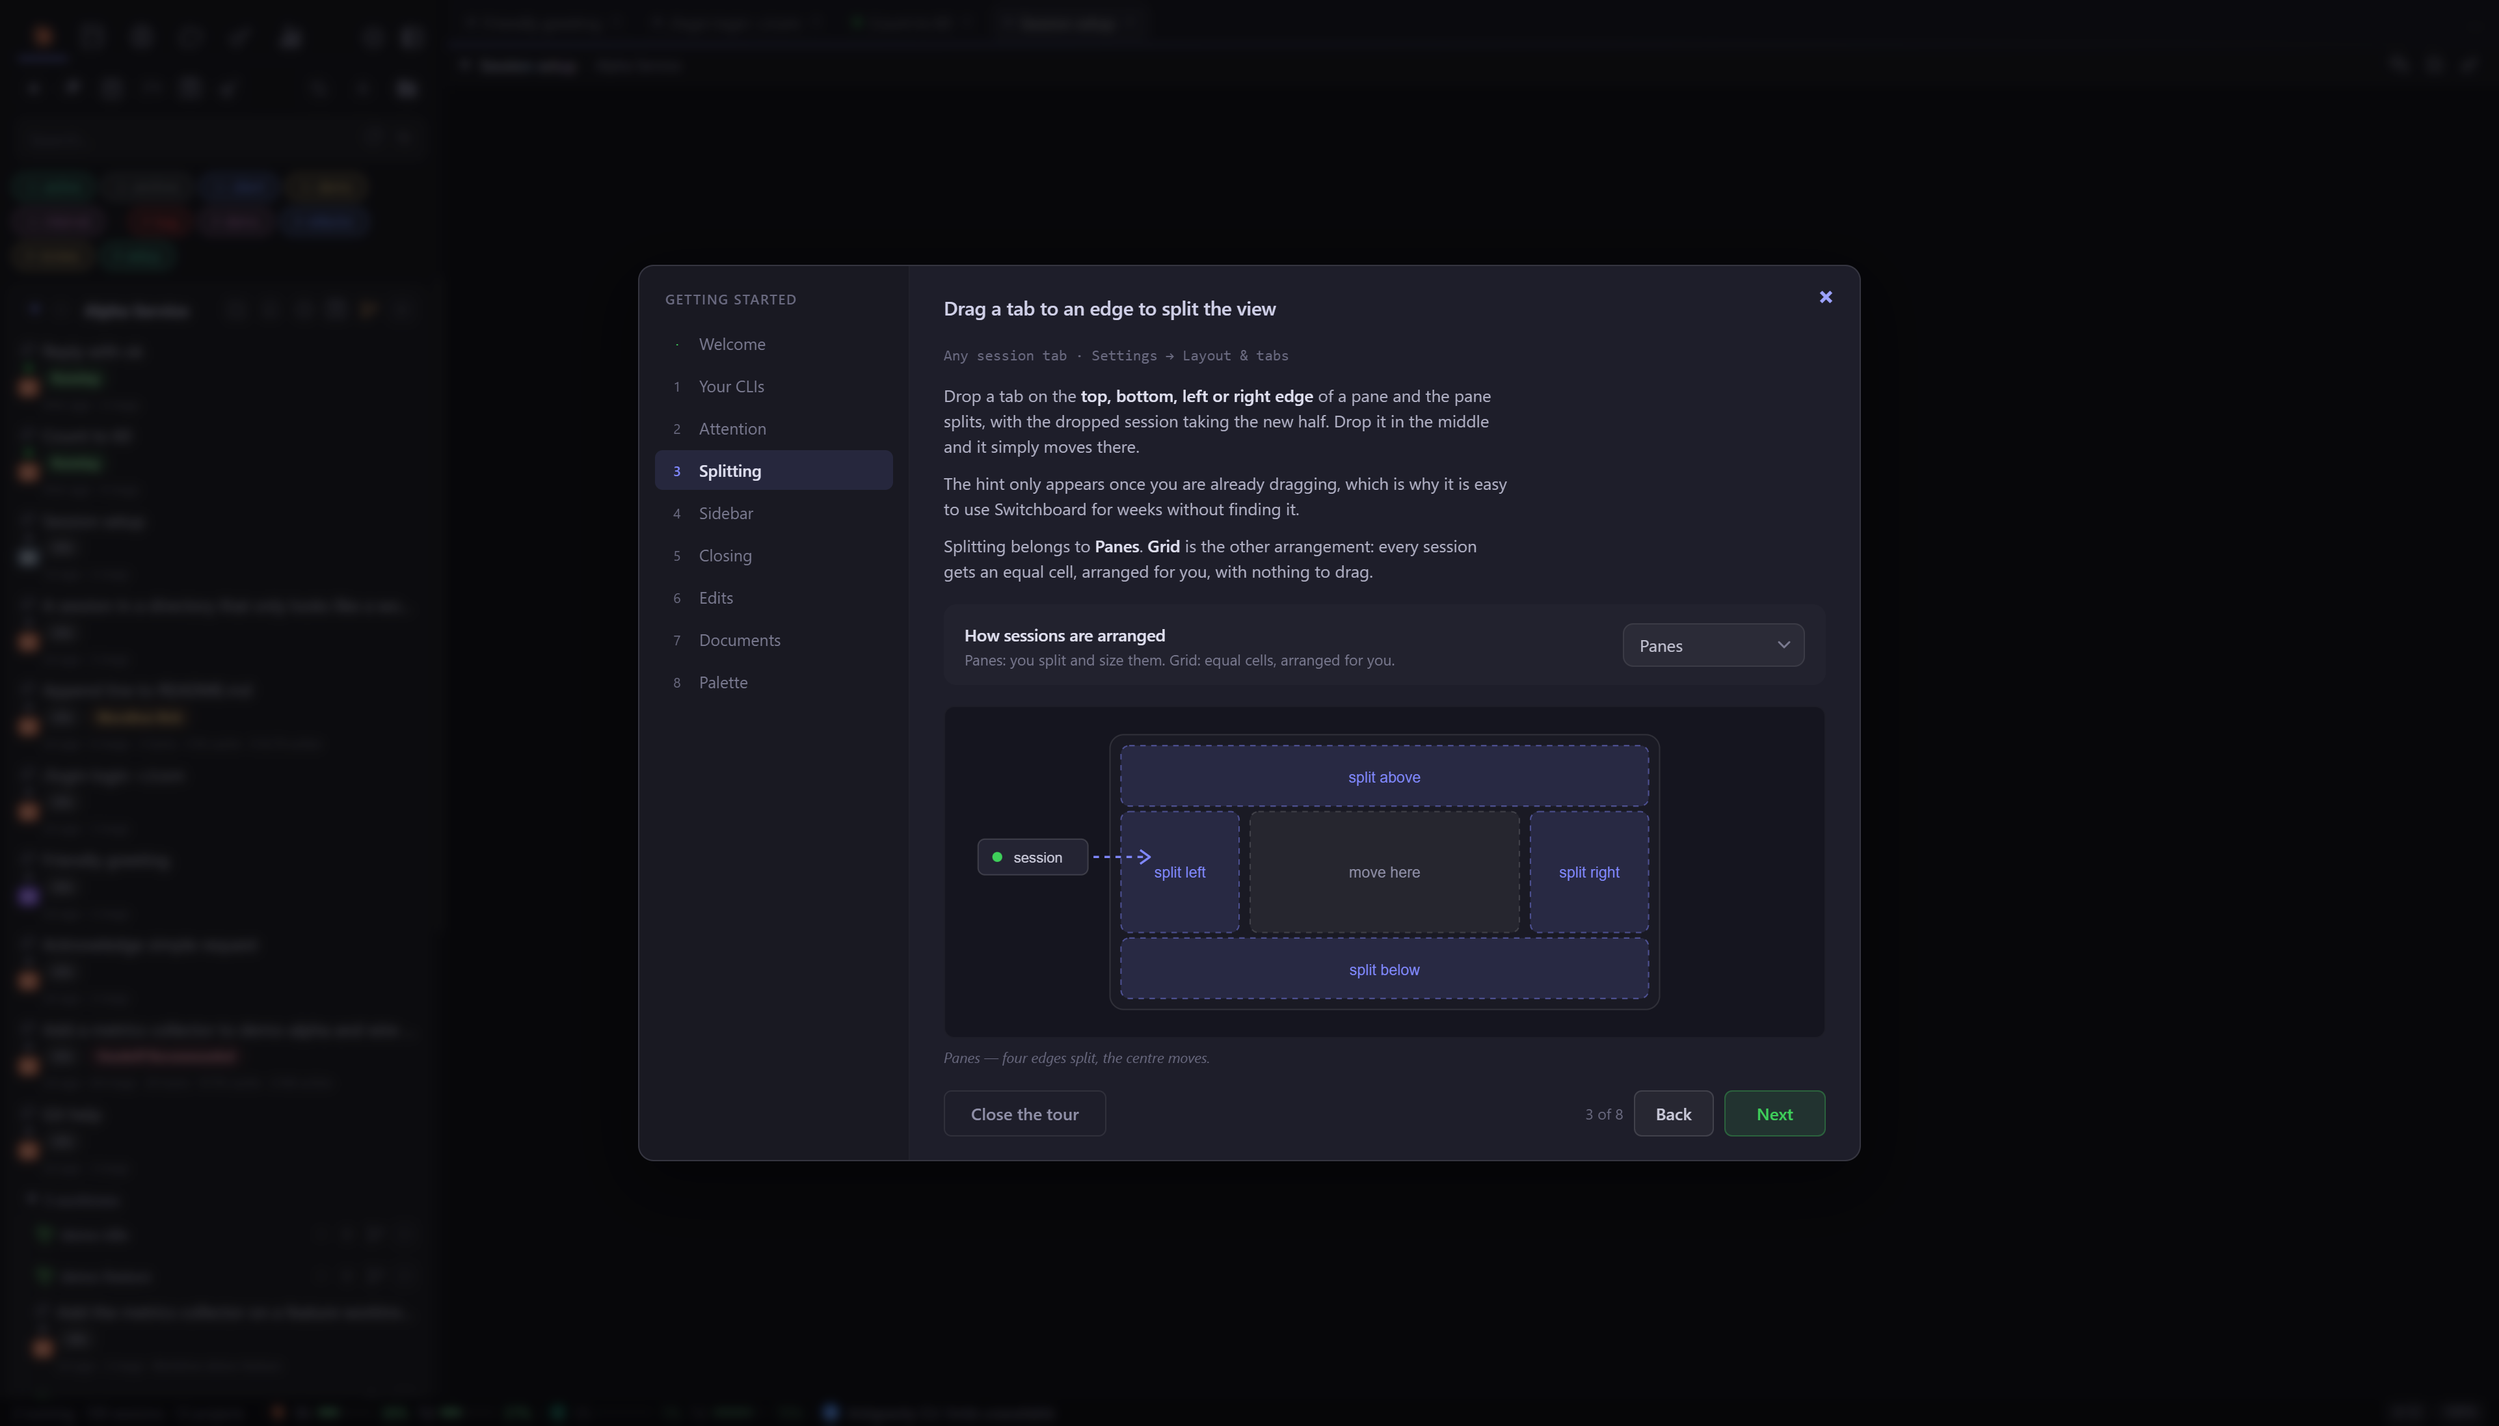
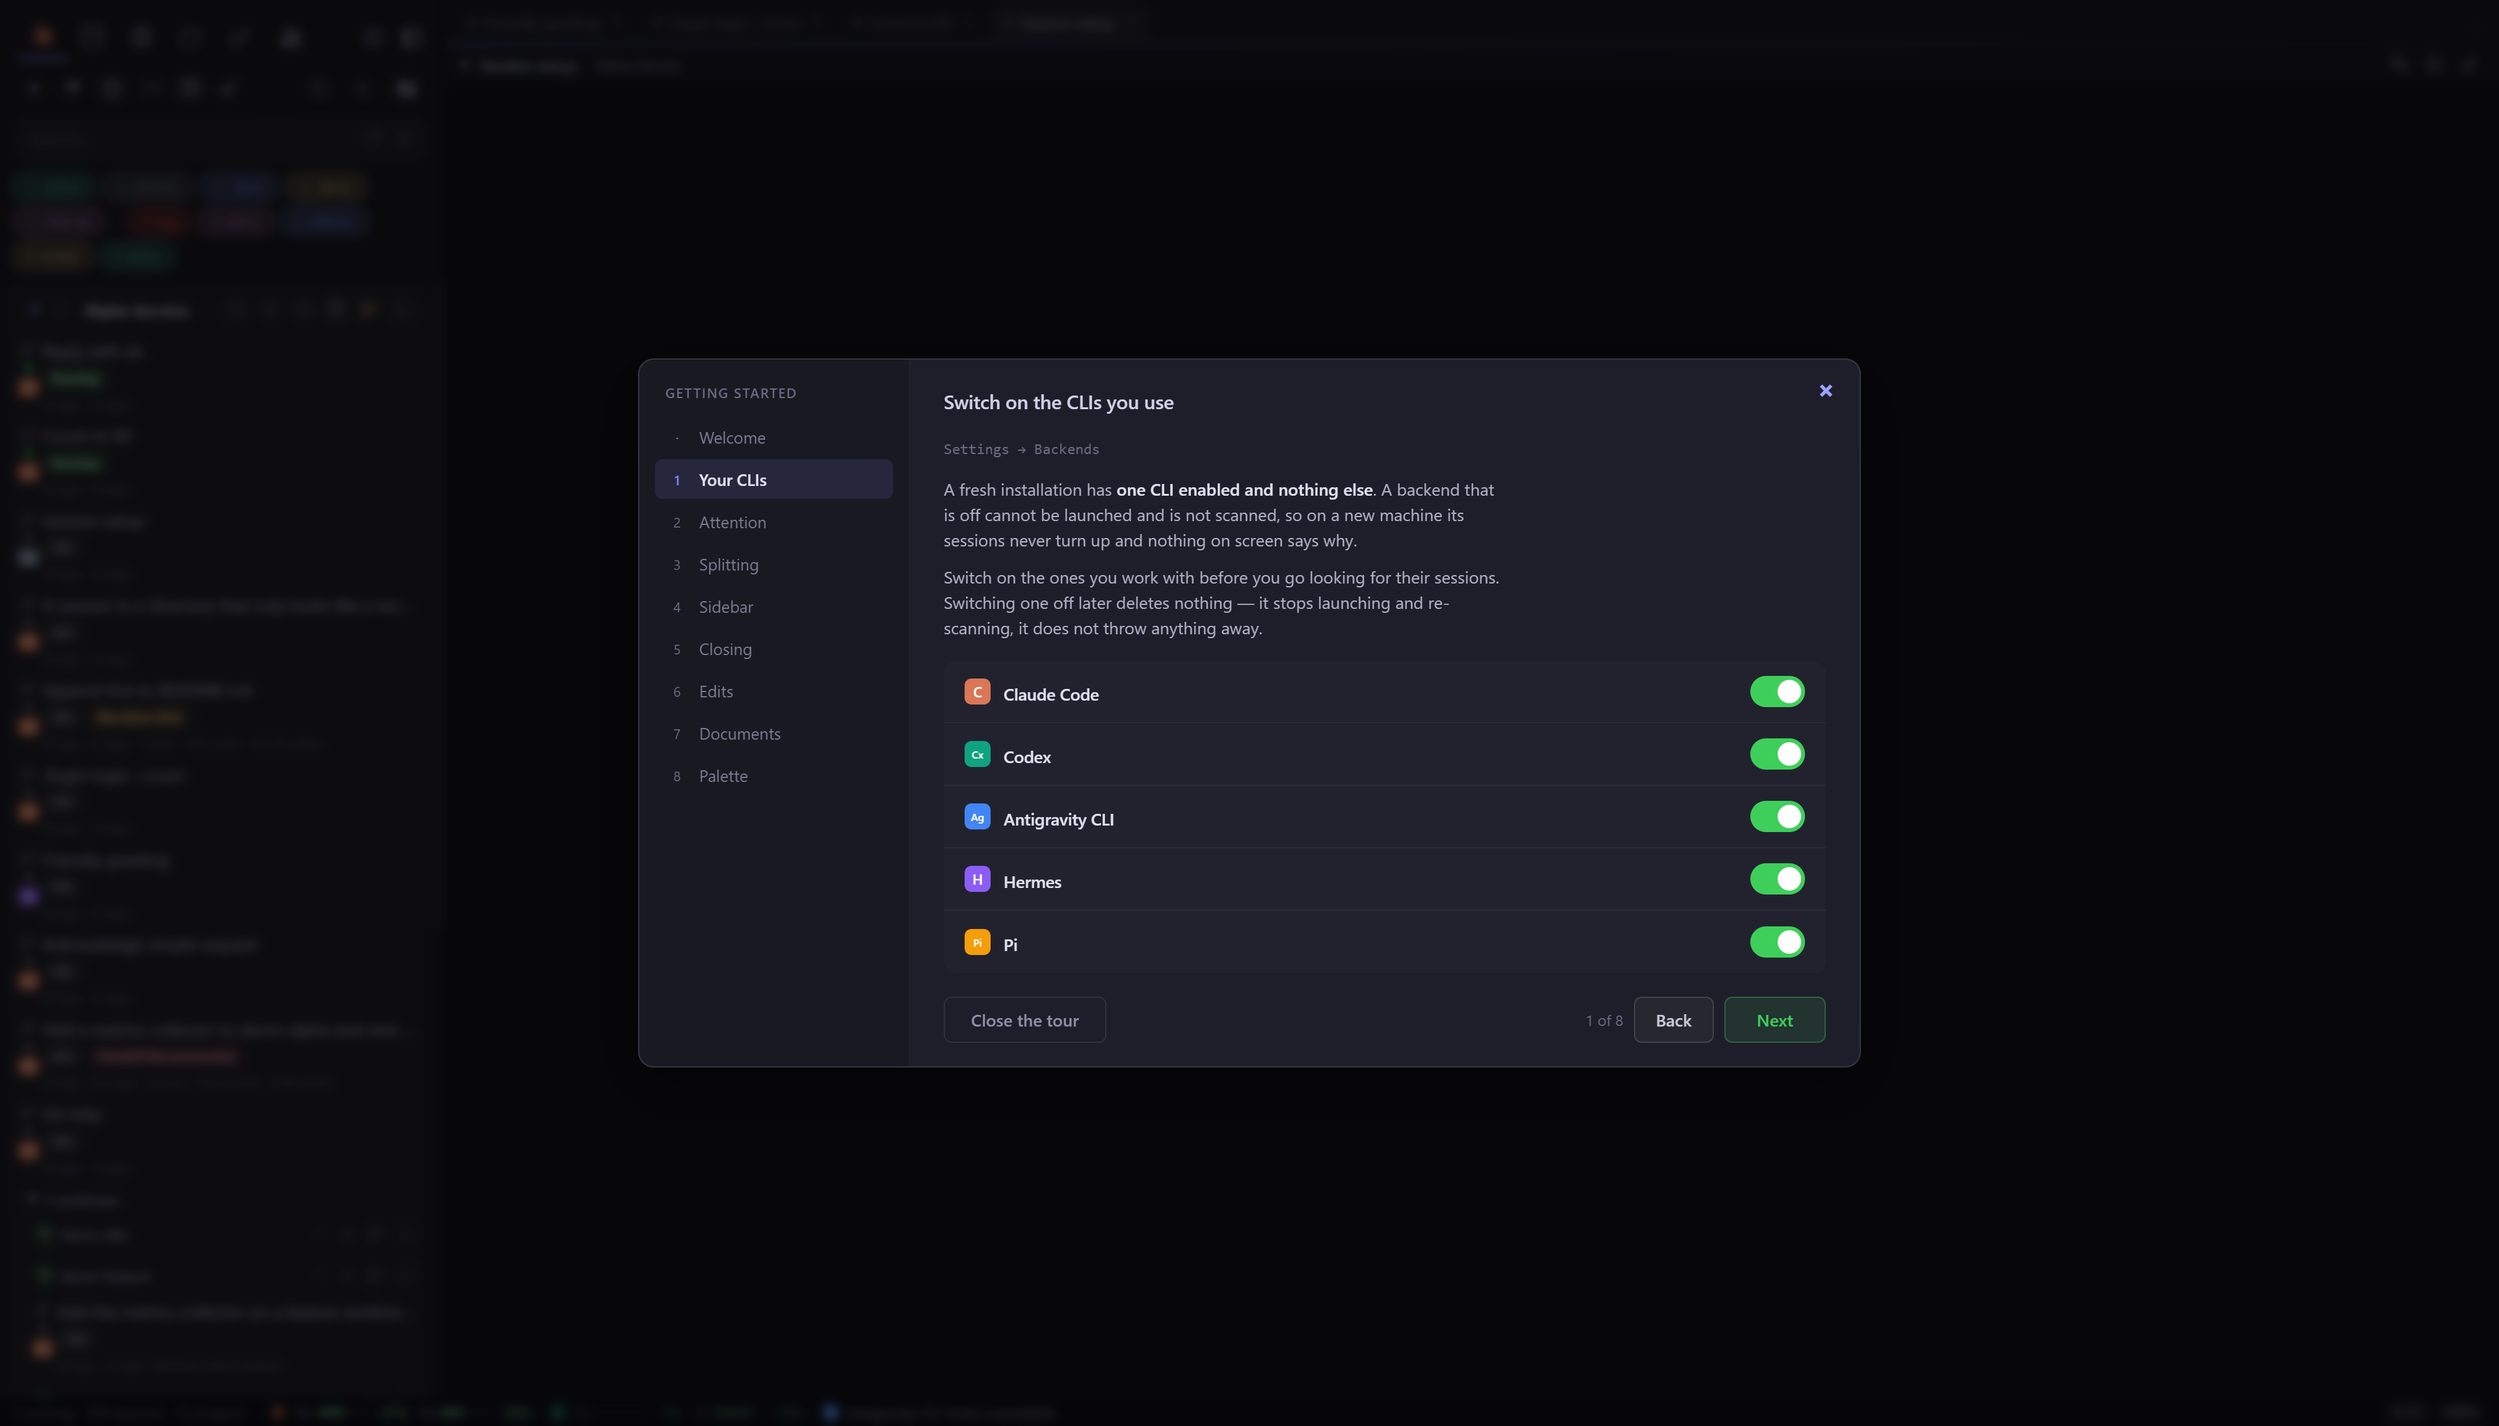
fix(onboarding): put the tour where it is done, and match its badges
Two corrections to #146, both about the tour agreeing with the app
around it.

**The reopen button moves from About to Maintenance.** About is a plate
to read — version, lineage, license, runtime — and showing the tour is
a thing you do, next to the other things you do to an installation.

**Pane 1's backend badges are the settings screen's badges.** Two
surfaces draw a backend, and they spell the key differently on purpose:
the per-backend page header resolves `icon || colour || id` and shows
Claude's Anthropic mark, while the ENABLE LIST — a toggle per backend,
which is exactly what this pane is — resolves `colour || id` so the
column reads as one set of monograms. The tour took neither: it passed
`colour` as an OPTION, which overrides the fill the key would have
chosen, and then reached for `icon` first. Both looked right on their
own and put a different badge beside the same backend in the two
places.

Guards for both, because both are couplings a later edit breaks
silently: the button has to be inside the Maintenance section, and the
badge expression has to be the one the enable list uses.

diff --git a/src/renderer/panels/settings-global-html.js b/src/renderer/panels/settings-global-html.js
@@ -163,6 +163,27 @@
             <!-- ===== Maintenance ===== -->
             <section class="settings-cat" data-cat="maintenance">
               <div class="settings-cat-head"><h2>Maintenance</h2><p>Repair and move your Switchboard data.</p></div>
+              <!-- The welcome tour, reachable again (#146). It lives in MAINTENANCE rather than About:
+                   About is a plate — version, lineage, license, runtime — and this is a thing you DO, next
+                   to the other things you do to an installation. It OPENS the tour rather than resetting
+                   the welcomeDismissed flag, because resetting it would make the tour reappear unasked on
+                   the next launch, which is the one thing that flag exists to prevent. The tour lives in
+                   the main window, so the click relays through main and this window closes on the way.
+                   NO BACKTICKS IN HERE: this comment sits inside a template literal, and one ends it. -->
+              <div class="settings-section">
+                <div class="settings-field">
+                  <div class="settings-field-info">
+                    <div class="settings-field-header">
+                      <span class="settings-label">Welcome tour</span>
+                    </div>
+                    <div class="settings-description">The eight things a new installation does not explain by itself.</div>
+                  </div>
+                  <div class="settings-field-control">
+                    <button class="settings-action-btn" id="sv-show-welcome-tour" type="button">Show the tour</button>
+                  </div>
+                </div>
+              </div>
+
               <div class="settings-section">
                 <div class="settings-field">
                   <div class="settings-field-info">
@@ -1159,25 +1180,6 @@
                 <div class="about-app">
                   <div class="about-name">Switchboard</div>
                   <div class="about-version">Version <span id="sv-about-version">…</span> · <code>deadeye</code> · <code id="sv-about-build">…</code></div>
-                </div>
-              </div>
-
-              <!-- The welcome tour, reachable again (#146). It OPENS the tour rather than resetting the
-                   welcomeDismissed flag — resetting it would make the tour reappear unasked on the next
-                   launch, which is the one thing that flag exists to prevent. The tour lives in the main
-                   window, so the click relays through main; this window closes on the way.
-                   NO BACKTICKS IN HERE: this comment sits inside a template literal, and one ends it. -->
-              <div class="settings-section">
-                <div class="settings-field">
-                  <div class="settings-field-info">
-                    <div class="settings-field-header">
-                      <span class="settings-label">Welcome tour</span>
-                    </div>
-                    <div class="settings-description">The eight things a new installation does not explain by itself.</div>
-                  </div>
-                  <div class="settings-field-control">
-                    <button class="settings-action-btn" id="sv-show-welcome-tour" type="button">Show the tour</button>
-                  </div>
                 </div>
               </div>
 

diff --git a/src/renderer/dialogs/welcome-tour.js b/src/renderer/dialogs/welcome-tour.js
@@ -2,7 +2,7 @@
 //
 // Nine panes over one dialog: a welcome pane and eight things a fresh installation does not explain by
 // itself. Shown once, on the first launch of a profile that has no `welcomeDismissed` in its global
-// settings, and reachable afterwards from Settings → About.
+// settings, and reachable afterwards from Settings → Maintenance.
 //
 // Three things about it are decisions rather than taste, and they are the ones to keep:
 //
@@ -268,8 +268,8 @@
       body: `<p>Switchboard finds the coding-CLI sessions already on this machine, groups them by project,
         and keeps them running side by side. Nothing here starts a session on its own.</p>
         <p>Eight short panes cover what a fresh installation does not explain by itself. Every one of them
-        lets you change the setting it talks about, right here. Settings → About brings the tour back at
-        any time.</p>`,
+        lets you change the setting it talks about, right here. Settings → Maintenance brings the tour
+        back at any time.</p>`,
     },
     {
       rail: 'Your CLIs',
@@ -684,8 +684,15 @@
             kind: 'toggle',
             label: b.label || b.id,
             desc: b.available === false ? (b.unavailableReason || 'Not installed on this machine.') : '',
+            // The SAME badge the settings screen draws BESIDE A TOGGLE — `backends-panel.js`'s enable
+            // list, which spells the key `colour || id` and deliberately NOT `icon`. The per-backend
+            // page header uses `icon` first and therefore shows Claude's Anthropic mark; the enable
+            // list shows a monogram for every backend, so the column reads as one set. This pane is
+            // that list, so it takes that key. Two earlier spellings both looked right on their own and
+            // put a different badge next to the same backend in the two places: passing `colour` as an
+            // OPTION (it overrides the fill the key would have chosen), and reaching for `icon` first.
             badge: typeof window.backendBadgeHtml === 'function'
-              ? window.backendBadgeHtml(b.icon || b.id, 20, { monogram: b.monogram, colour: b.colour })
+              ? window.backendBadgeHtml(b.colour || b.id, 20, { monogram: b.monogram })
               : '',
             setting: { type: 'backendEnabled', backendId: b.id, fallback: b.enabled !== false },
           })),
@@ -742,7 +749,7 @@
     overlay.addEventListener('click', (e) => {
       // Four ways out, on purpose: the × in the corner, Skip, Escape, and a click on the backdrop.
       // Nothing here holds work that a stray click could lose — every control writes as it is changed —
-      // and the way back is one button in Settings → About. A tour that is hard to leave is a tour
+      // and the way back is one button in Settings → Maintenance. A tour that is hard to leave is a tour
       // people learn to resent.
       if (e.target === overlay) { dismiss(); return; }
       const go = e.target.closest('[data-wt-go]');

diff --git a/test/welcome-tour.test.js b/test/welcome-tour.test.js
@@ -157,7 +157,7 @@ test('the reopen relay raises the main window and addresses it alone', () => {
 test('there are four ways out of the tour', () => {
   // It opens by itself on the first launch after an update, in front of somebody who did not ask for it.
   // Nothing in it holds work a stray click could lose — every control writes as it is changed — and the
-  // way back is one button in Settings → About, so leaving must be the easy part.
+  // way back is one button in Settings → Maintenance, so leaving must be the easy part.
   const tour = read(TOUR);
   assert.match(tour, /wt-close/, 'a × in the corner');
   assert.match(tour, /wt-skip/, 'a labelled button in the actions row');
@@ -180,6 +180,31 @@ test('both surfaces say when the attention hook was not installed', () => {
   // A dialog rather than an inline note, and that is forced: Save closes the panel and Apply rebuilds it,
   // so anything written into the DOM there is gone before it can be read.
   assert.match(read(PANEL), /noteHookOutcome[\s\S]{0,900}showControlMessage/);
+});
+
+test('the reopen button lives in Maintenance, and its markup says so', () => {
+  // Not About: About is a plate to read - version, lineage, license, runtime - and this is a thing you
+  // DO, next to the other things you do to an installation.
+  const html = read('src/renderer/panels/settings-global-html.js');
+  // The SECTION, not the nav button of the same name — the nav is rendered first, so a plain indexOf
+  // slices an empty range and the test passes for the wrong reason.
+  const start = html.indexOf('<section class="settings-cat" data-cat="maintenance"');
+  assert.ok(start > 0, 'the Maintenance section is gone');
+  const end = html.indexOf('<section class="settings-cat"', start + 1);
+  const maintenance = html.slice(start, end > start ? end : undefined);
+  assert.match(maintenance, /sv-show-welcome-tour/, 'the button must sit inside the Maintenance section');
+});
+
+test('pane 1 draws the badge the settings screen draws beside a toggle', () => {
+  // Two surfaces, two spellings, and they were different: the per-backend page header resolves
+  // `icon || colour || id` and shows Claude's Anthropic mark, while the ENABLE LIST - the list this pane
+  // is - resolves `colour || id` so the column reads as one set of monograms. Taking the wrong one puts a
+  // different badge next to the same backend in the two places.
+  const tour = read(TOUR);
+  const panel = read('src/renderer/panels/backends-panel.js');
+  assert.match(tour, /backendBadgeHtml\(b\.colour \|\| b\.id, 20, \{ monogram: b\.monogram \}\)/);
+  assert.match(panel, /data-icon="\$\{esc\(b\.colour \|\| b\.id\)\}" data-size="20"/,
+    'the enable list changed its badge key - the tour has to follow it');
 });
 
 test('the demo seed marks the tour as seen, but only when nobody has answered', () => {

diff --git a/src/preload.js b/src/preload.js
@@ -182,7 +182,7 @@ contextBridge.exposeInMainWorld('api', {
   onSessionDetachRekeyed: (cb) => ipcRenderer.on('session-detach-rekeyed', (_e, fromId, toId) => cb(fromId, toId)),
   notifySettingsChanged: () => ipcRenderer.send('settings-changed'),
   onSettingsChanged: (cb) => ipcRenderer.on('settings-changed', () => cb()),
-  // The welcome tour (#146), asked for from Settings → About and drawn in the main window. The relay
+  // The welcome tour (#146), asked for from Settings → Maintenance and drawn in the main window. The relay
   // is main's, not a direct window-to-window send: the settings window is a separate BrowserWindow and
   // only main can hide it, raise the main one, and address that window alone.
   showWelcomeTour: () => ipcRenderer.send('show-welcome-tour'),

diff --git a/src/renderer/panels/settings-panel.js b/src/renderer/panels/settings-panel.js
@@ -869,7 +869,7 @@
         }).catch(() => {});
       }
 
-      // Show the welcome tour again (#146). The tour lives in the MAIN window, and this panel also runs
+      // Show the welcome tour again (#146), from Maintenance. The tour lives in the MAIN window, and this panel also runs
       // inside the standalone settings window — so the click relays through main rather than opening
       // anything locally. Main hides this window and raises the main one; a tour behind the settings
       // window would be a button that appears to do nothing.

diff --git a/src/app/windows.js b/src/app/windows.js
@@ -462,7 +462,7 @@ function registerIpc(ipc = ipcMain) {
 
   ipc.on('settings-changed', (event) => broadcastSettingsChanged(event.sender));
 
-  // Show the welcome tour again, from the button in Settings → About (#146).
+  // Show the welcome tour again, from the button in Settings → Maintenance (#146).
   //
   // Three things this has to do that a plain `send` would not. The settings window is a CHILD of the
   // main window, so hiding it does not un-minimise the parent — a tour drawn into a minimised window is

diff --git a/src/renderer/app.js b/src/renderer/app.js
@@ -2495,7 +2495,7 @@ loadProjects().then(async () => {
   Promise.resolve(window.welcomeTour?.maybeShowOnLaunch?.()).catch(() => {});
 });
 
-// Settings → About asks for the tour again; main relays it to this window (#146).
+// Settings → Maintenance asks for the tour again; main relays it to this window (#146).
 if (window.api && typeof window.api.onShowWelcomeTour === 'function') {
   window.api.onShowWelcomeTour(() => window.welcomeTour?.open?.());
 }
